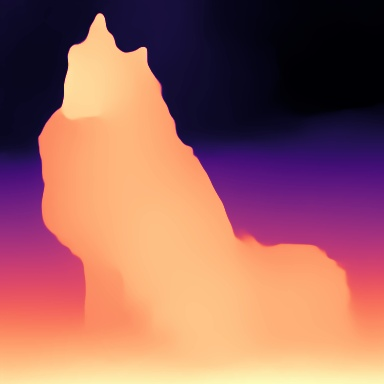
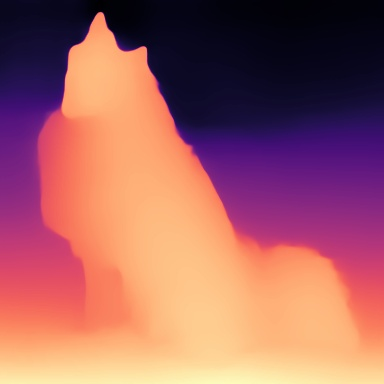
dpt model onnx

Changed region(s): [[0.0, 0.0, 1.0, 0.7812], [0.2812, 0.6875, 0.3125, 0.7188]]

diff --git a/onnx_convert.py b/onnx_convert.py
@@ -3,41 +3,13 @@ import torch
 from midas.dpt_depth import DPTDepthModel
 from midas.midas_net_custom import MidasNet_small
 from midas.midas_net import MidasNet
+from utils import DPTDepthModel_prepro, MidasNet_small_prepro, MidasNet_prepro
 import os
 import requests
 import gc
 import numpy as np
     
 OPSET_VERSION = 14
-
-class DPTDepthModel_preprocessing(DPTDepthModel):
-    """Network for monocular depth estimation.
-    """
-    def forward(self, x):
-        """Forward pass.
-
-        Args:
-            x (tensor): input data (image)
-
-        Returns:
-            tensor: depth
-        """
-        return DPTDepthModel.forward(self, x)
-        
-class MidasNet_preprocessing(MidasNet):
-    """Network for monocular depth estimation.
-    """
-    def forward(self, x):
-        """Forward pass.
-
-        Args:
-            x (tensor): input data (image)
-
-        Returns:
-            tensor: depth
-        """
-        return MidasNet.forward(self, x)
-
 
 def download_file(url, folder_path):
     # Create the folder if it doesn't exist
@@ -106,9 +78,7 @@ single_model_params = {"dpt_beit_large_512":
     "dpt_swin_large_384": ["weights/dpt_swin_large_384.pt", "swinl12_384", "https://github.com/isl-org/MiDaS/releases/download/v3_1/dpt_swin_large_384.pt"],
     
     "dpt_next_vit_large_384": ["weights/dpt_next_vit_large_384.pt", "next_vit_large_6m", "https://github.com/isl-org/MiDaS/releases/download/v3_1/dpt_next_vit_large_384.pt"],
-    
-    "dpt_levit_224":["weights/dpt_levit_224.pt", "levit_384", "https://github.com/isl-org/MiDaS/releases/download/v3_1/dpt_levit_224.pt"],
-    
+
     "dpt_large_384": ["weights/dpt_large_384.pt", "vitl16_384", "https://github.com/isl-org/MiDaS/releases/download/v3/dpt_large_384.pt"],
     
     "midas_v21_384": ["weights/midas_v21_384.pt", "", "https://github.com/isl-org/MiDaS/releases/download/v2_1/midas_v21_384.pt"],
@@ -169,12 +139,6 @@ model_params = [
         "url": "https://github.com/isl-org/MiDaS/releases/download/v3_1/dpt_next_vit_large_384.pt"
     },
     {
-        "name": "dpt_levit_224",
-        "path": "weights/dpt_levit_224.pt",
-        "backbone": "levit_384",
-        "url": "https://github.com/isl-org/MiDaS/releases/download/v3_1/dpt_levit_224.pt"
-    },
-    {
         "name": "dpt_large_384",
         "path": "weights/dpt_large_384.pt",
         "backbone": "vitl16_384",
@@ -208,16 +172,8 @@ def convert_all_models(opt):
 
         if modelName != "midas_v21_384" and modelName != "midas_v21_small_256":
             patchUnflatten()
-
-        if modelName == "dpt_levit_224":
-            model = DPTDepthModel(
-                path=model_path,
-                backbone=model_param["backbone"],
-                non_negative=True,
-                head_features_1=64,
-                head_features_2=8,
-            )
-        elif modelName == "midas_v21_384":
+        
+        if modelName == "midas_v21_384":
             model = MidasNet(model_path, non_negative=True)
         elif modelName == "midas_v21_small_256":
             model = MidasNet_small(
@@ -250,26 +206,41 @@ def convert_all_models(opt):
         else:
             mean = torch.tensor([0.5, 0.5, 0.5])
             std = torch.tensor([0.5, 0.5, 0.5])
-
+            
         # insert normalization layer at the beginning of the model
         norm_layer = NormalizationLayer(mean, std)
         model = torch.nn.Sequential(norm_layer, model)
 
+        if modelName == "midas_v21_384":
+            model = MidasNet_prepro(model_path, non_negative=True)
+        elif modelName == "midas_v21_small_256":
+            model = MidasNet_small_prepro(model_path, non_negative=True)
+        else:
+            model = DPTDepthModel_prepro(model_path, backbone=model_param["backbone"], non_negative=True)
+        
         model.eval()
-        torch.onnx.export(
-            model,
-            torch.rand(1, 3, net_h, net_w, dtype=torch.float),
-            onnxFile,
-            export_params=True,
-            opset_version=OPSET_VERSION,
-            input_names=["input_image"],
-            output_names=["output_depth"],
-            do_constant_folding=True
-        )
 
+        img_input = np.zeros((3, net_w, net_h), np.float32)
+
+        # compute
+        with torch.no_grad():
+            sample = torch.from_numpy(img_input).unsqueeze(0)
+            prediction = model.forward(sample)
+            prediction = (
+                torch.nn.functional.interpolate(
+                    prediction.unsqueeze(1),
+                    size=img_input.shape[:2],
+                    mode="bicubic",
+                    align_corners=False,
+                )
+                .squeeze()
+                .cpu()
+                .numpy()
+            )
+
+        torch.onnx.export(model, sample, onnxFile, opset_version=OPSET_VERSION)
         # free memory
         del model
-        gc.collect()
     print('Convert all model files to ONNX.')
 
 
@@ -289,16 +260,8 @@ def convert_specific_models(opt):
 
     if modelName != "midas_v21_384" and modelName != "midas_v21_small_256":
         patchUnflatten()
-
-    if modelName == "dpt_levit_224":
-        model = DPTDepthModel(
-            path=model_path,
-            backbone=backbone,
-            non_negative=True,
-            head_features_1=64,
-            head_features_2=8,
-        )
-    elif modelName == "midas_v21_384":
+        
+    if modelName == "midas_v21_384":
         model = MidasNet(model_path, non_negative=True)
     elif modelName == "midas_v21_small_256":
         model = MidasNet_small(
@@ -312,7 +275,7 @@ def convert_specific_models(opt):
     else:
         model = DPTDepthModel(
             path=model_path,
-            backbone=backbone,
+            backbone=model_param["backbone"],
             non_negative=True,
         )
 
@@ -337,9 +300,11 @@ def convert_specific_models(opt):
     model = torch.nn.Sequential(norm_layer, model)
 
     if modelName == "midas_v21_384":
-        model = MidasNet_preprocessing(model_path, non_negative=True)
-    elif modelName == "dpt_large_384":
-        model = DPTDepthModel_preprocessing(model_path, backbone=backbone, non_negative=True)
+        model = MidasNet_prepro(model_path, non_negative=True)
+    elif modelName == "midas_v21_small_256":
+        model = MidasNet_small_prepro(model_path, non_negative=True)
+    else:
+        model = DPTDepthModel_prepro(model_path, backbone=backbone, non_negative=True)
     
     model.eval()
 
@@ -369,7 +334,7 @@ if __name__ == '__main__':
     parser.add_argument('-m', '--mode', type=str, default='single', help='single or all')
     parser.add_argument('-t', '--model_type',
                         default='dpt_large_384',
-                        help='Model type: dpt_beit_large_512, dpt_beit_large_384, dpt_beit_base_384, dpt_swin2_large_384, dpt_swin2_base_384, dpt_swin2_tiny_256, dpt_swin_large_384, dpt_next_vit_large_384, dpt_levit_224, dpt_large_384, midas_v21_384, midas_v21_small_256')
+                        help='Model type: dpt_beit_large_512, dpt_beit_large_384, dpt_beit_base_384, dpt_swin2_large_384, dpt_swin2_base_384, dpt_swin2_tiny_256, dpt_swin_large_384, dpt_next_vit_large_384, dpt_large_384, midas_v21_384, midas_v21_small_256')
     parser.add_argument('-o', '--out_folder', type=str, default='weights', help='optput flder')
     opt = parser.parse_args()
     if opt.mode=='single':

diff --git a/utils.py b/utils.py
@@ -1,6 +1,9 @@
 import cv2
 from midas.transforms import Resize, NormalizeImage, PrepareForNet
 from torchvision.transforms import Compose
+from midas.dpt_depth import DPTDepthModel
+from midas.midas_net_custom import MidasNet_small
+from midas.midas_net import MidasNet
 
 def read_image(path):
     """Read image and output RGB image (0-1).
@@ -50,3 +53,47 @@ def call_transform(model_type="dpt_large_384"):
         ]
     )
     return transform, net_w, net_h
+
+
+class DPTDepthModel_prepro(DPTDepthModel):
+    """Network for monocular depth estimation.
+    """
+    def forward(self, x):
+        """Forward pass.
+
+        Args:
+            x (tensor): input data (image)
+
+        Returns:
+            tensor: depth
+        """
+        return DPTDepthModel.forward(self, x)
+    
+class MidasNet_small_prepro(MidasNet_small):
+    """Network for monocular depth estimation.
+    """
+    def forward(self, x):
+        """Forward pass.
+
+        Args:
+            x (tensor): input data (image)
+
+        Returns:
+            tensor: depth
+        """
+        return MidasNet_small.forward(self, x)
+        
+        
+class MidasNet_prepro(MidasNet):
+    """Network for monocular depth estimation.
+    """
+    def forward(self, x):
+        """Forward pass.
+
+        Args:
+            x (tensor): input data (image)
+
+        Returns:
+            tensor: depth
+        """
+        return MidasNet.forward(self, x)

diff --git a/onnx_predict.py b/onnx_predict.py
@@ -37,7 +37,7 @@ def inference(opt):
 
 if __name__ == '__main__':
     parser = argparse.ArgumentParser()
-    parser.add_argument('--onnx_model_path', type=str, default='weights/dpt_large_384.onnx', help='onnx midas weight model')
+    parser.add_argument('-p', '--onnx_model_path', type=str, default='weights/dpt_large_384.onnx', help='onnx midas weight model')
     parser.add_argument('-i', '--filename', type=str, default='input/input.jpg', help='input image name')
     parser.add_argument('-o', '--out_name', type=str, default='output/result', help='optput image name, must png not jpg')
     opt = parser.parse_args()
